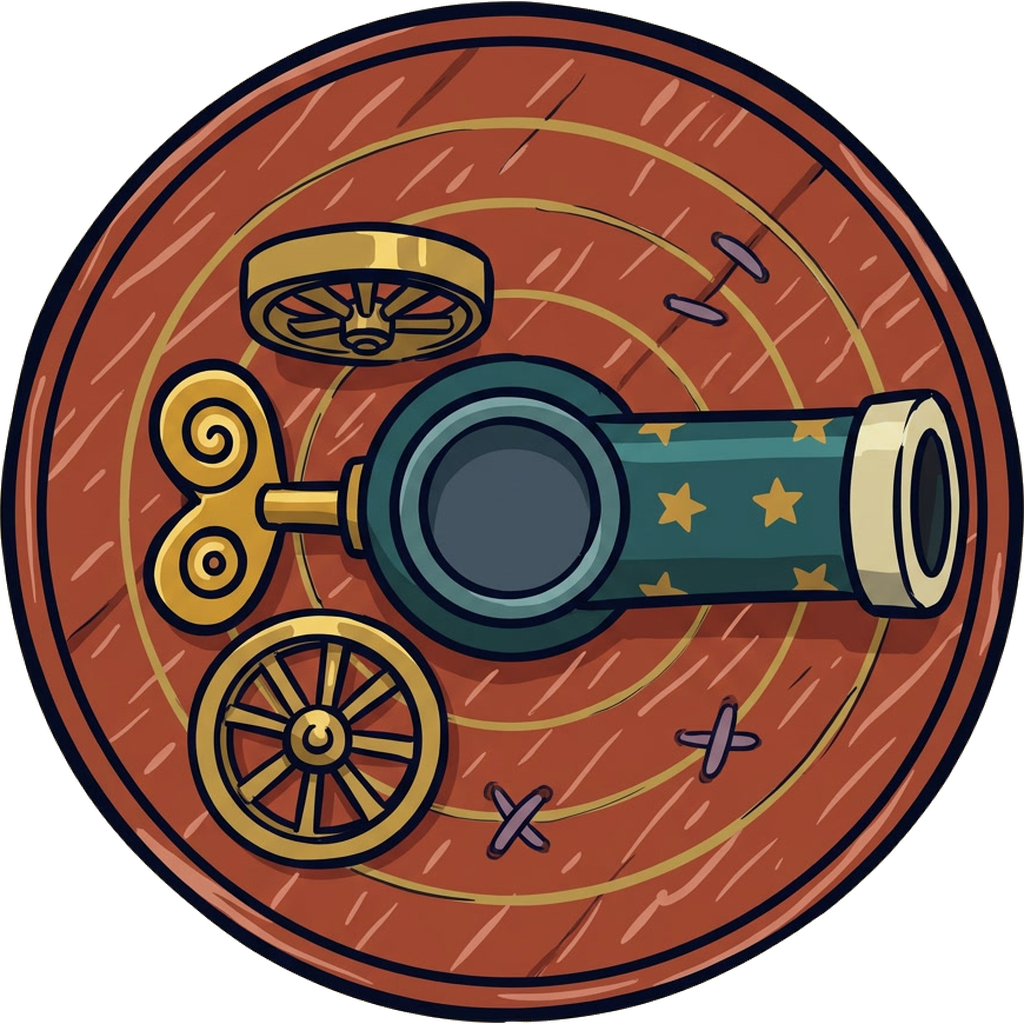
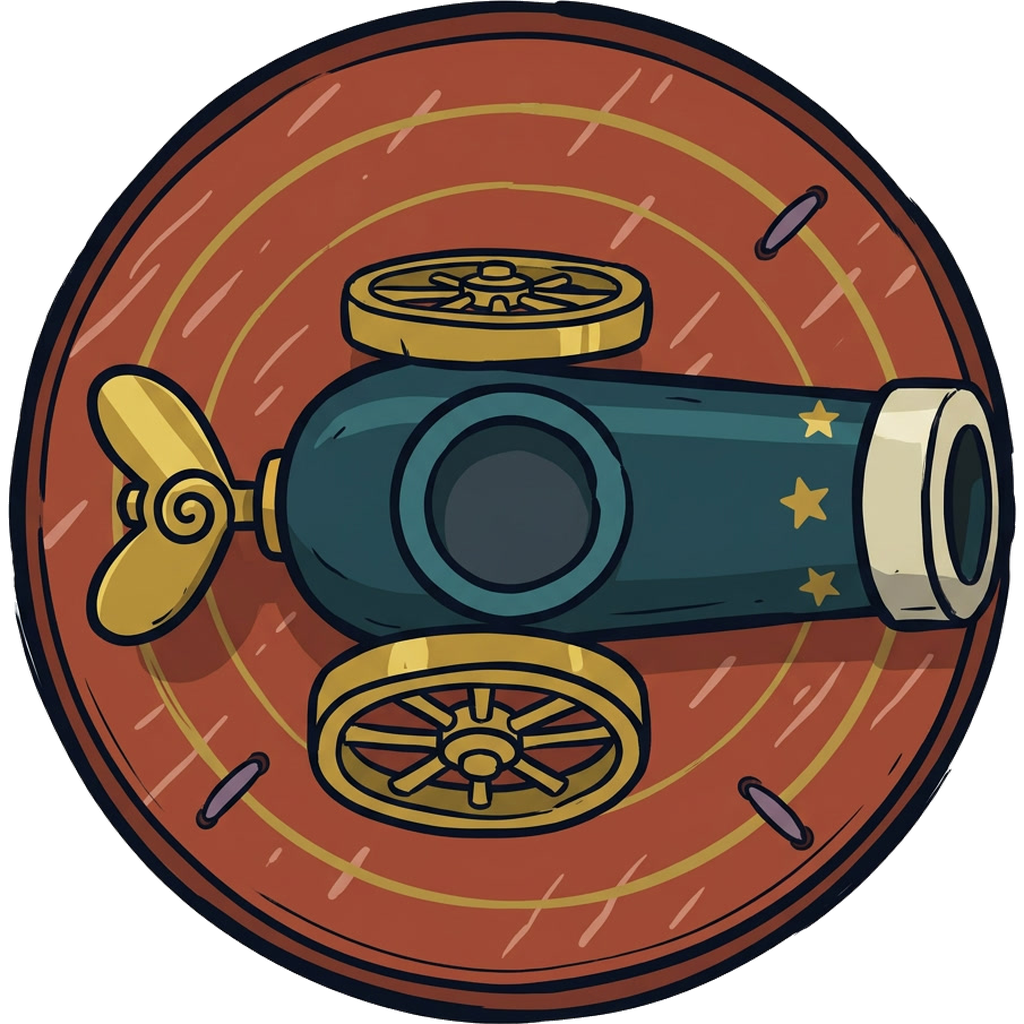
feat(art): 최종본을 형락님 지정본으로 교체
2026-08-06 형락님이 8종을 직접 지정했다. 기존 채택은 내 추천이었고 절반이
바뀌었다.

  솜            2차 0번    (유지)
  용수철 인형    3차 0번 -> 3차 1번
  장난감 북      3번    -> 2번
  구슬 미끄럼틀  3번    -> 2번
  태엽 대포      3번    -> 1번
  별빛 브로치    0번    -> 3번
  황금 톱니바퀴  3번    -> 0번
  잊혀진 별방울  3번    -> 1번

황금 톱니바퀴는 원본에 액자가 그려진 후보라 마스킹 후에도 걸이줄 자국 4개가
위쪽에 남아 있었다. 알파 bbox 를 위로 늘려 표시 지름 계산까지 어긋나므로
얇은 스트로크만 지우고 재정규화했다.

지정본에서 새로 생긴 제약을 README 에 적었다.

- 태엽 대포 1번은 포구가 받침대 원을 넘는다. 회전 시 충돌 판정과 어긋날 수 있다
- 구슬 미끄럼틀 2번은 통로가 접시 밖으로 나가 실루엣이 원이 아니다.
  표시 지름이 통로 기준으로 잡혀 접시가 충돌 원보다 작아진다

diff --git a/docs/bumper_guides/final/README.md b/docs/bumper_guides/final/README.md
@@ -16,9 +16,9 @@
 | --- | --- | ---: | --- |
 | 단추 | `bumper_master_v2.py` 코드 생성 | 92 / 88 | 검수 통과 확정본. 원본 JPG 없음 |
 | 솜 | 2차 0번 | 104 / 96 | **공보다 밝다.** 명도 재조정 여지 |
-| 용수철 인형 | 3차 0번 | 112 / 104 | 기본 상태. 타격 프레임 미제작 |
-| 장난감 북 | 3번 | 128 / 120 | 페넌트가 한 바퀴를 채우지 않아 대칭을 피했다 |
-| 구슬 미끄럼틀 | 3번 | 240 / 232 | **코드에 슬롯 없음.** 표시 지름도 가정값 |
-| 태엽 대포 | 3번 | 128 / 112 | 포신 +X, 포구가 받침대 원 안에서 끝난다 |
+| 용수철 인형 | 3차 1번 | 112 / 104 | 기본 상태. 타격 프레임 미제작 |
+| 장난감 북 | 2번 | 128 / 120 | 페넌트·금별·청록 로프가 한 바퀴 다 들어갔다 |
+| 구슬 미끄럼틀 | 2번 | 240 / 232 | **코드에 슬롯 없음.** 표시 지름도 가정값. 통로가 접시 밖으로 나가 실루엣이 원이 아니다 |
+| 태엽 대포 | 1번 | 128 / 112 | 포신 +X. **포구가 받침대 원을 넘는다** — 회전 시 충돌 판정과 어긋날 수 있다 |
 
-솜 · 용수철 인형은 PL 검토 대기 중이다. 결과에 따라 교체될 수 있다.
+2026-08-06 형락님이 8종을 직접 지정한 확정본이다.

diff --git a/docs/repair_part_guides/final/README.md b/docs/repair_part_guides/final/README.md
@@ -13,9 +13,9 @@
 
 | 부품 | 채택 | 비고 |
 | --- | --- | --- |
-| 별빛 브로치 | 0번 | 황동 뼈대와 아이보리 에나멜 대비가 88px 에서 가장 잘 버틴다 |
-| 황금 톱니바퀴 | 3번 | 리벳 3개가 한 줄로 놓여 단계 표시로 읽힌다 |
-| 잊혀진 별방울 | 3번 | 리본이 짧아 본체 실루엣을 해치지 않는다 |
+| 별빛 브로치 | 3번 | 아이보리 팔이 넓어 별 팔 2단계 점등을 얹을 자리가 있다 |
+| 황금 톱니바퀴 | 0번 | 리벳 3개가 한 줄로 놓인다. 원본 액자의 걸이줄 자국은 마스킹 후 따로 지웠다 |
+| 잊혀진 별방울 | 1번 | 별 절개와 가로 이음선이 또렷하다. 리본이 왼쪽으로 나가 실루엣이 넓다 |
 | 초승달 바늘 | **없음** | 가이드 14쪽 **"개발 취소됨, 구현하지 말것"**. 아래 참고 |
 
 ## ★ 초승달 바늘 — 기획서와 코드가 어긋나 있다
